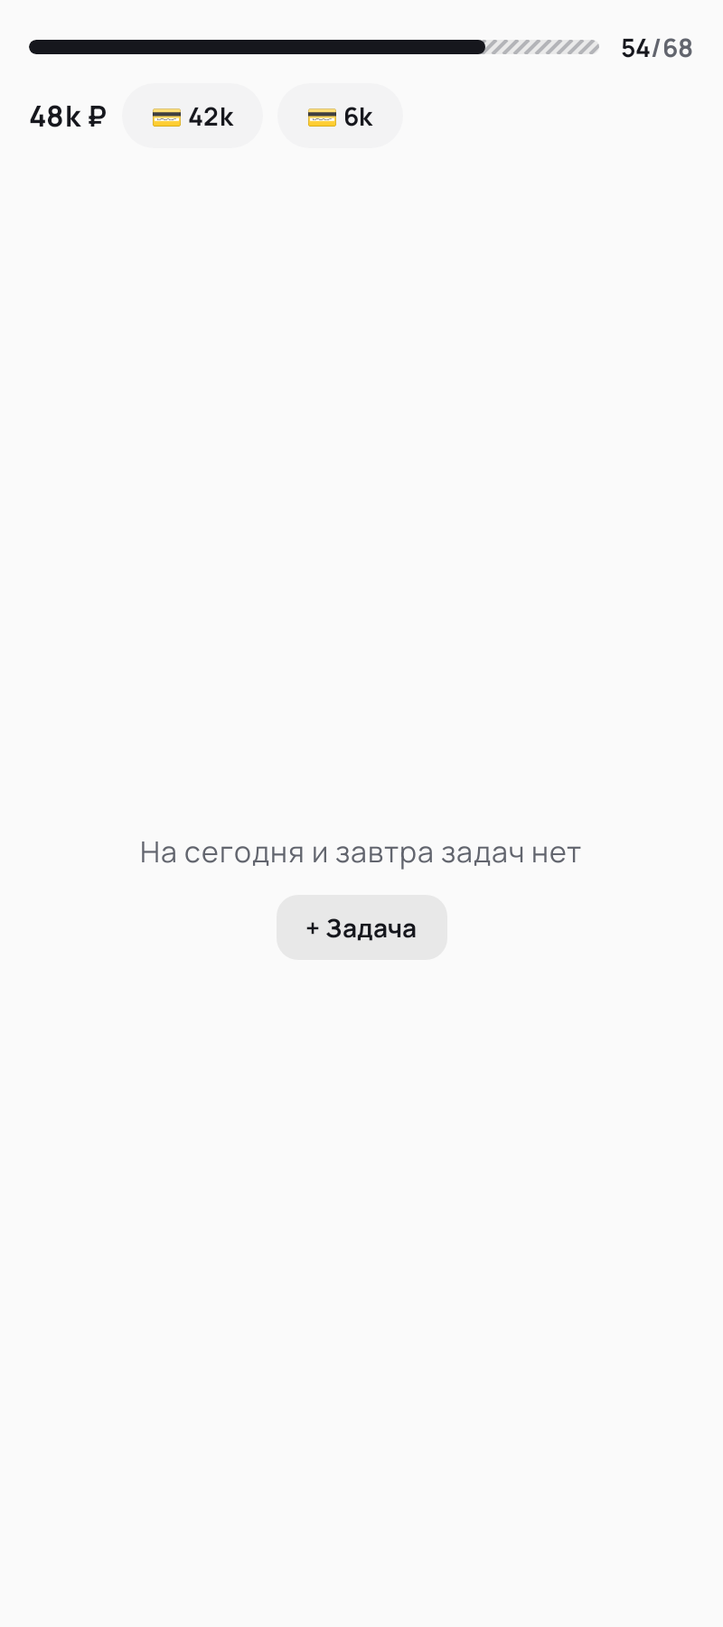
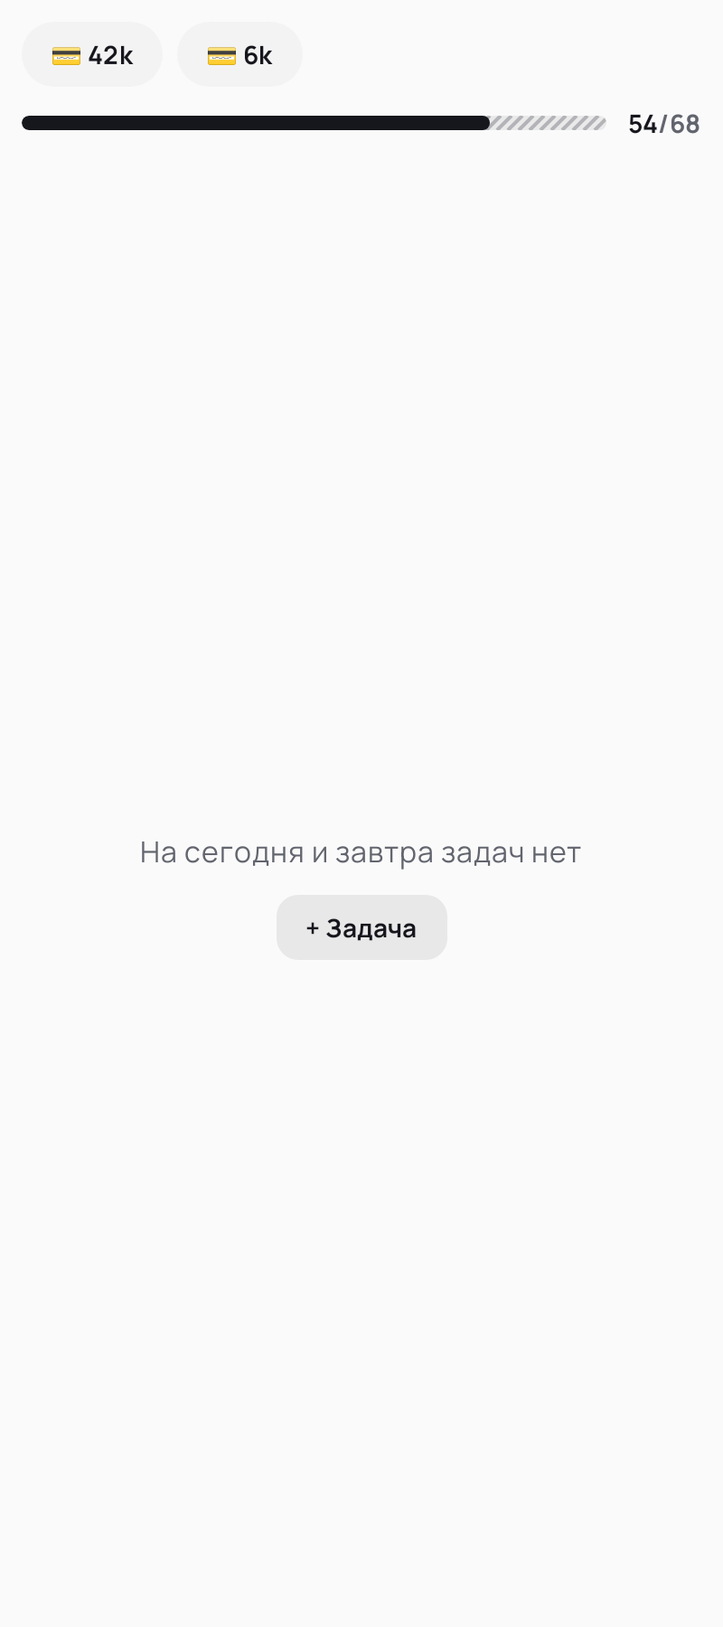
#350: редизайн хаба — счета над полосой, неделя задач, поля 12; 0.100.0
Claude-Session: https://claude.ai/code/session_019jJJH8rKyfX5gCn8Qf3pcD

Changed region(s): [[0.0312, 0.0, 0.8438, 0.0933], [0.875, 0.0622, 0.9688, 0.0933], [0.9062, 0.0, 0.9375, 0.0311]]

diff --git a/app/src/main/java/com/prostovasei/simpletasks/ui/feature/hub/HubScreen.kt b/app/src/main/java/com/prostovasei/simpletasks/ui/feature/hub/HubScreen.kt
@@ -1,5 +1,6 @@
 package com.prostovasei.simpletasks.ui.feature.hub
 
+import java.time.LocalDate
 import androidx.compose.foundation.layout.fillMaxHeight
 import androidx.compose.foundation.layout.height
 import androidx.compose.foundation.layout.Spacer
@@ -186,7 +187,7 @@ private fun HubHabits(habits: List<com.prostovasei.simpletasks.domain.model.habi
     val colors = AppTheme.colors
     val spacing = AppTheme.spacing
     Row(
-        Modifier.fillMaxWidth().horizontalScroll(rememberScrollState()).padding(horizontal = spacing.md).testTag(TAG_HUB_HABITS),
+        Modifier.fillMaxWidth().horizontalScroll(rememberScrollState()).padding(horizontal = spacing.sm).testTag(TAG_HUB_HABITS),
         horizontalArrangement = Arrangement.spacedBy(spacing.xs),
     ) {
         habits.forEach { habit ->
@@ -221,22 +222,22 @@ private fun HubFinance(state: FinanceState, onIntent: (FinanceIntent) -> Unit) {
     val month = java.time.YearMonth.from(today)
     val model = remember(state.operations, today) { MonthSpending.of(state.operations.orEmpty(), month, today) }
     val budget = remember(state.budgets, state.categories, state.operations, today) { state.monthBudget(month) }
-    Column(Modifier.fillMaxWidth().padding(horizontal = spacing.md).testTag(TAG_HUB_FINANCE)) {
+    // #350 (выбор PM): счета над полосой, без общей суммы; отступ до полосы 10; поля 12, как у всех блоков хаба.
+    Column(Modifier.fillMaxWidth().padding(horizontal = spacing.sm).testTag(TAG_HUB_FINANCE)) {
+        state.accounts?.takeIf { it.isNotEmpty() }?.let { HubAccounts(it) }
         LimitBar(model.total, monthLimit(context, budget), model.forecast, month, today, daily = true) { onIntent(FinanceIntent.OpenBudget(month)) }
-        state.accounts?.takeIf { it.isNotEmpty() }?.let { HubAccounts(it, state.total) }
     }
 }
 
 @Composable
-private fun HubAccounts(accounts: List<Account>, total: Long) {
+private fun HubAccounts(accounts: List<Account>) {
     val colors = AppTheme.colors
     val spacing = AppTheme.spacing
     // #336 (выбор PM): плашки счетов крупнее — 14 sp и поля 12 × 8; не помещаются — листаются вбок.
     Row(
-        Modifier.fillMaxWidth().padding(top = (SizeTokens.HUB_FINANCE_GAP - SpacingTokens.XXS).dp).horizontalScroll(rememberScrollState()),
+        Modifier.fillMaxWidth().padding(bottom = (SizeTokens.HUB_FINANCE_GAP - SpacingTokens.XXS).dp).horizontalScroll(rememberScrollState()),
         horizontalArrangement = Arrangement.spacedBy(spacing.xs), verticalAlignment = Alignment.CenterVertically,
     ) {
-        Text("${financeThousands(total)} ₽", style = MaterialTheme.typography.titleMedium, fontWeight = FontWeight.Bold, color = colors.textPrimary, maxLines = 1)
         accounts.take(HUB_ACCOUNTS).forEach { account ->
             Text("${account.emojiShown} ${financeThousands(account.balance)}", Modifier.clip(CircleShape).background(FinanceShareColors.accountSurface)
                 .padding(horizontal = spacing.md, vertical = spacing.xs).testTag(TAG_HUB_ACCOUNT), style = MaterialTheme.typography.titleSmall, fontWeight = FontWeight.Bold,
@@ -252,11 +253,9 @@ private fun HubTasks(state: HubState, onIntent: (TaskListIntent) -> Unit, onOpen
     val nowMinute = rememberNowMinute()
     val toggle: (TaskItem) -> Unit = { onIntent(TaskListIntent.ToggleComplete(it.id, it.isRecurring, it.showsDone)) }
     val open: (TaskItem) -> Unit = { onOpenTask(it.ghostOf ?: it.id) }
-    val groups = listOf(
-        Triple(null, state.overdue, true),
-        Triple(today, state.todayItems, false),
-        Triple(today.plusDays(1), state.tomorrowItems, false),
-    )
+    // #350 (выбор PM): неделя списком вниз; пустые дни скрыты.
+    val groups = listOf(Triple<LocalDate?, List<TaskItem>, Boolean>(null, state.overdue, true)) + state.days.map { (date, items) -> Triple(date, items, false) }
+    val edge = AppTheme.spacing.xxs
     // #338: список идёт под капсулу; снизу отступ в её высоту, чтобы последнюю задачу можно было поднять над панелью.
     LazyColumn(Modifier.fillMaxSize().testTag(TAG_HUB_TASKS), contentPadding = androidx.compose.foundation.layout.WindowInsets.navigationBars
         .asPaddingValues().let { androidx.compose.foundation.layout.PaddingValues(bottom = it.calculateBottomPadding() + SizeTokens.NAV_BAR_SPACE.dp) }) {
@@ -270,7 +269,7 @@ private fun HubTasks(state: HubState, onIntent: (TaskListIntent) -> Unit, onOpen
                 } else {
                     DayHeader(
                         text = WidgetDates.header(date),
-                        relative = if (index == 1) days.day(DayLabel.Today) else days.day(DayLabel.Tomorrow),
+                        relative = when (index) { 1 -> days.day(DayLabel.Today); 2 -> days.day(DayLabel.Tomorrow); else -> null },
                         isOverdue = false,
                         count = items.size,
                         progress = if (index == 1) items.count { it.isDone } to items.size else null,
@@ -290,6 +289,7 @@ private fun HubTasks(state: HubState, onIntent: (TaskListIntent) -> Unit, onOpen
                 onOpen = open,
                 dayLabels = late,
                 today = today,
+                inset = edge,
             )
         }
     }
@@ -323,8 +323,8 @@ private fun HubNewsPager(news: List<HubNews>) {
         val prev = stringResource(R.string.hub_news_prev)
         val next = stringResource(R.string.hub_news_next)
         Box(Modifier.fillMaxWidth()) {
-        HorizontalPager(pager, Modifier.fillMaxWidth(), contentPadding = androidx.compose.foundation.layout.PaddingValues(horizontal = spacing.md),
-            pageSpacing = spacing.md) { page ->
+        HorizontalPager(pager, Modifier.fillMaxWidth(), contentPadding = androidx.compose.foundation.layout.PaddingValues(horizontal = spacing.sm),
+            pageSpacing = spacing.sm) { page ->
             Column(verticalArrangement = Arrangement.spacedBy(spacing.xs)) {
                 pages[page].chunked(2).forEach { pair ->
                     Row(Modifier.fillMaxWidth(), horizontalArrangement = Arrangement.spacedBy(spacing.xs)) {

diff --git a/app/src/test/java/com/prostovasei/simpletasks/widget/WidgetHubTest.kt b/app/src/test/java/com/prostovasei/simpletasks/widget/WidgetHubTest.kt
@@ -57,16 +57,18 @@ class WidgetHubTest {
             WidgetDayBlock(WidgetDay.On(today.minusDays(1)), listOf(item("late", "Оплатить интернет", DayLabel.Yesterday, "10:00"))),
             WidgetDayBlock(WidgetDay.On(today), listOf(item("a", "Созвон с командой", DayLabel.Today, "10:00"), item("b", "Купить продукты", DayLabel.Today, null))),
             WidgetDayBlock(WidgetDay.On(today.plusDays(1)), listOf(item("c", "Стоматолог", DayLabel.Tomorrow, "09:30"))),
-            WidgetDayBlock(WidgetDay.On(today.plusDays(3)), listOf(item("far", "Через три дня", DayLabel.Date(today.plusDays(3), false), null))),
+            WidgetDayBlock(WidgetDay.On(today.plusDays(3)), listOf(item("near", "Через три дня", DayLabel.Date(today.plusDays(3), false), null))),
+            WidgetDayBlock(WidgetDay.On(today.plusDays(7)), listOf(item("far", "Через неделю", DayLabel.Date(today.plusDays(7), false), null))),
         ),
     )
 
     private val news = (1..6).map { HubNews("https://example.com/$it", "09:0$it · Футбол", "Новость номер $it о матче", unread = it <= 2) }
 
     @Test
-    fun hubModelKeepsOverdueTodayAndTomorrowOnly() {
+    fun hubModelKeepsOverdueAndNextWeek() {
+        // #350: неделя вперёд (сегодня + 6 дней), дальше — нет.
         val days = model.forHub().days.map { (it.day as WidgetDay.On).date }
-        assertEquals(listOf(today.minusDays(1), today, today.plusDays(1)), days)
+        assertEquals(listOf(today.minusDays(1), today, today.plusDays(1), today.plusDays(3)), days)
     }
 
     @Test
@@ -84,7 +86,7 @@ class WidgetHubTest {
         val rows = FinanceRows(context, 400, 760)
         val accounts = listOf(Account("a", "Карта", AccountType.entries.first(), "💳", 0, 4_200_000, Instant.EPOCH),
             Account("b", "Наличные", AccountType.entries.first(), "👛", 0, 600_000, Instant.EPOCH))
-        val finance = listOf(rows.limitViews(MonthSpending.of(ops, month, today), 8_000_000, month, today, daily = true), rows.accountRow(accounts, 4, large = true))
+        val finance = listOf(rows.accountRow(accounts, 4, large = true), rows.limitViews(MonthSpending.of(ops, month, today), 8_000_000, month, today, daily = true))
         val size = DpSize(400.dp, 760.dp)
         val bar = runBlocking {
             GlanceRemoteViews().compose(context, size, appWidgetOptions = Bundle()) {
@@ -103,7 +105,7 @@ class WidgetHubTest {
         assertTrue(root.descendants().filter { it.id == R.id.widget_hub_habit }.all { it.hasOnClickListeners() })
         val list = root.descendants().filterIsInstance<ListView>().single()
         val texts = (0 until list.adapter.count).flatMap { list.adapter.getView(it, null, list).texts() }
-        assertTrue(texts.toString(), "Оплатить интернет" in texts && "Стоматолог" in texts && "Через три дня" !in texts)
+        assertTrue(texts.toString(), "Оплатить интернет" in texts && "Стоматолог" in texts && "Через три дня" in texts && "Через неделю" !in texts)
         val cards = root.descendants().filter { it.id == R.id.hub_card_title }.map { (it as TextView).text.toString() }.toList()
         assertEquals(news.take(4).map { it.title }, cards)
         // #346: точек и стрелок нет — невидимые края листают; заголовков разделов нет.

diff --git a/app/src/main/java/com/prostovasei/simpletasks/ui/feature/hub/HubViewModel.kt b/app/src/main/java/com/prostovasei/simpletasks/ui/feature/hub/HubViewModel.kt
@@ -26,11 +26,13 @@ import javax.inject.Inject
 data class HubState(
     val today: LocalDate? = null,
     val overdue: List<TaskItem> = emptyList(),
-    val todayItems: List<TaskItem> = emptyList(),
-    val tomorrowItems: List<TaskItem> = emptyList(),
+    /** #350: ближайшая неделя — сегодня и ещё шесть дней, по порядку. */
+    val days: List<Pair<LocalDate, List<TaskItem>>> = emptyList(),
     val isLoading: Boolean = true,
 ) {
-    val isEmpty: Boolean get() = !isLoading && overdue.isEmpty() && todayItems.isEmpty() && tomorrowItems.isEmpty()
+    val todayItems: List<TaskItem> get() = days.getOrNull(0)?.second.orEmpty()
+    val tomorrowItems: List<TaskItem> get() = days.getOrNull(1)?.second.orEmpty()
+    val isEmpty: Boolean get() = !isLoading && overdue.isEmpty() && days.all { it.second.isEmpty() }
 }
 
 @OptIn(ExperimentalCoroutinesApi::class)
@@ -47,11 +49,11 @@ class HubViewModel @Inject constructor(
     init {
         viewModelScope.launch {
             dayTicker.today().flatMapLatest { today ->
-                val tomorrow = today.plusDays(1)
+                val last = today.plusDays(HUB_DAYS - 1L)
                 combine(
                     tasks.observeAllScreen(today),
                     tasks.observeWeek(today.weekStart()),
-                    tasks.observeWeek(tomorrow.weekStart()),
+                    tasks.observeWeek(last.weekStart()),
                     projects.observeProjectTree(),
                     completion.pending,
                 ) { all, week, nextWeek, tree, pending ->
@@ -62,8 +64,10 @@ class HubViewModel @Inject constructor(
                     HubState(
                         today = today,
                         overdue = all.overdue.map { it.toItem(byId, today, zone, pending) },
-                        todayItems = day(today, week),
-                        tomorrowItems = day(tomorrow, nextWeek),
+                        days = (0 until HUB_DAYS).map { offset ->
+                            val date = today.plusDays(offset.toLong())
+                            date to day(date, if (date.weekStart() == today.weekStart()) week else nextWeek)
+                        },
                         isLoading = false,
                     )
                 }
@@ -79,3 +83,6 @@ class HubViewModel @Inject constructor(
         }
     }
 }
+
+/** #350: хаб показывает задачи на неделю вперёд (сегодня + 6 дней). */
+const val HUB_DAYS = 7

diff --git a/app/src/main/java/com/prostovasei/simpletasks/ui/common/TimelineTaskList.kt b/app/src/main/java/com/prostovasei/simpletasks/ui/common/TimelineTaskList.kt
@@ -91,6 +91,8 @@ fun LazyListScope.timelineItems(
     /** #314: появление строк по очереди (окно дня); null — строки появляются сразу. */
     rowMotion: (@Composable (index: Int, content: @Composable () -> Unit) -> Unit)? = null,
     today: LocalDate = LocalDate.now(),
+    /** #350: внешнее поле строки; в хабе — XXS, чтобы кружок и время стояли в 12 dp от края, как остальные блоки. */
+    inset: androidx.compose.ui.unit.Dp? = null,
 ) {
     val rows = WidgetTimeline.rows(items, overdue = dayLabels, nowMinute = nowMinute.takeUnless { dayLabels }, days = days)
         .filterIsInstance<WidgetRow.Task>()
@@ -109,6 +111,7 @@ fun LazyListScope.timelineItems(
                 selected = if (selecting && !item.isGhost) item.id in selection.orEmpty() else null,
                 onLongClick = if (selectable && !selecting) { { onSelect?.invoke(item) } } else null,
                 today = today,
+                inset = inset,
             )
         }
         if (rowMotion != null) rowMotion(index, content) else content()
@@ -166,6 +169,7 @@ fun LazyItemScope.TimelineTaskRow(
     selected: Boolean? = null,
     onLongClick: (() -> Unit)? = null,
     today: LocalDate = LocalDate.now(),
+    inset: androidx.compose.ui.unit.Dp? = null,
 ) {
     val colors = AppTheme.colors
     val spacing = AppTheme.spacing
@@ -186,7 +190,7 @@ fun LazyItemScope.TimelineTaskRow(
             .animateItem()
             .fillMaxWidth()
             .height(height)
-            .padding(horizontal = spacing.xs)
+            .padding(horizontal = inset ?: spacing.xs)
             .clip(AppTheme.shapes.medium)
             .then(if (selected == true) Modifier.background(colors.selected).border(SizeTokens.CHECKBOX_STROKE.dp, colors.accent, AppTheme.shapes.medium) else Modifier)
             .combinedClickable(onClick = onClick, onLongClick = onLongClick)

diff --git a/app/src/main/java/com/prostovasei/simpletasks/widget/WidgetHub.kt b/app/src/main/java/com/prostovasei/simpletasks/widget/WidgetHub.kt
@@ -28,10 +28,10 @@ import java.time.YearMonth
 /** Новостей на странице и страниц в виджете: 12 новостей — три страницы. */
 internal const val HUB_WIDGET_PAGE = 4
 
-/** Модель задач хаба: просроченные, сегодня и завтра из ленты «Все» (без дней дальше завтра и без «без даты»). */
+/** Модель задач хаба: просроченные и неделя вперёд (#350) из ленты «Все», без «без даты». */
 internal fun WidgetModel.forHub(): WidgetModel {
-    val tomorrow = today.plusDays(1)
-    return copy(days = days.filter { block -> (block.day as? WidgetDay.On)?.date?.let { it <= tomorrow } == true })
+    val last = today.plusDays(com.prostovasei.simpletasks.ui.feature.hub.HUB_DAYS - 1L)
+    return copy(days = days.filter { block -> (block.day as? WidgetDay.On)?.date?.let { it <= last } == true })
 }
 
 /** Страница новостей виджета: [page] по кругу в пределах [pages]. */
@@ -94,7 +94,8 @@ internal suspend fun hubFinance(context: Context, width: Int, height: Int): List
     val model = MonthSpending.of(operations, month, today)
     val budget = MonthBudget.of(BudgetRules.effective(repository.observeBudgets().first(), month, month),
         repository.observeCategories().first(), operations, month, today)
-    return listOf(rows.limitViews(model, monthLimit(context, budget), month, today, daily = true), rows.accountRow(accounts.take(HUB_ACCOUNTS), HUB_ACCOUNTS, large = true))
+    // #350 (выбор PM): счета над полосой.
+    return listOf(rows.accountRow(accounts.take(HUB_ACCOUNTS), HUB_ACCOUNTS, large = true), rows.limitViews(model, monthLimit(context, budget), month, today, daily = true))
 }
 
 @RequiresApi(Build.VERSION_CODES.S)

diff --git a/app/src/main/java/com/prostovasei/simpletasks/widget/WidgetFinance.kt b/app/src/main/java/com/prostovasei/simpletasks/widget/WidgetFinance.kt
@@ -171,6 +171,11 @@ internal class FinanceRows(private val context: Context, private val width: Int,
                             setTextViewTextSize(R.id.widget_finance_account, android.util.TypedValue.COMPLEX_UNIT_SP, ACCOUNT_LARGE_SP)
                             val density = context.resources.displayMetrics.density
                             setViewPadding(R.id.widget_finance_account, (10 * density).toInt(), (7 * density).toInt(), (10 * density).toInt(), (7 * density).toInt())
+                            // #350: крайние плашки — вровень с полосой (поле хаба 12), между плашками 6.
+                            if (Build.VERSION.SDK_INT >= Build.VERSION_CODES.S) {
+                                setViewLayoutMargin(R.id.widget_finance_account, RemoteViews.MARGIN_START, if (index == 0) 0f else 3f, android.util.TypedValue.COMPLEX_UNIT_DIP)
+                                setViewLayoutMargin(R.id.widget_finance_account, RemoteViews.MARGIN_END, if (index == columns - 1) 0f else 3f, android.util.TypedValue.COMPLEX_UNIT_DIP)
+                            }
                         }
                         setContentDescription(R.id.widget_finance_account, "${account.name}, ${Money.format(account.balance)}")
                     }

diff --git a/app/src/test/java/com/prostovasei/simpletasks/ui/feature/hub/HubScreenTest.kt b/app/src/test/java/com/prostovasei/simpletasks/ui/feature/hub/HubScreenTest.kt
@@ -42,8 +42,12 @@ class HubScreenTest {
     private val tasks = HubState(
         today = today,
         overdue = listOf(item("o1", "Оплатить интернет", "12:00", DayLabel.Yesterday, Priority.HIGH)),
-        todayItems = listOf(item("t1", "Созвон с командой", "10:00"), item("t2", "Купить продукты", null)),
-        tomorrowItems = listOf(item("m1", "Стоматолог", "09:30", DayLabel.Tomorrow)),
+        days = listOf(
+            today to listOf(item("t1", "Созвон с командой", "10:00"), item("t2", "Купить продукты", null)),
+            today.plusDays(1) to listOf(item("m1", "Стоматолог", "09:30", DayLabel.Tomorrow)),
+            today.plusDays(2) to emptyList(),
+            today.plusDays(4) to listOf(item("w1", "Планёрка", "10:00", DayLabel.Date(today.plusDays(4), showYear = false))),
+        ),
         isLoading = false,
     )
     private val finance = FinanceState(

diff --git a/docs/ARCHITECTURE.md b/docs/ARCHITECTURE.md
@@ -1767,6 +1767,10 @@ Compose и RemoteViews используют общие сокращения ме
 
 `VoiceSheet` ставит карточку как `TaskSheet`: `rememberKeyboardHeight` (запасные 40 % высоты), отступ снизу = max(клавиатура, ime, навигация) + 8 dp, высота `SizeTokens.VOICE_HEIGHT` = 212 dp. Внизу `Tide` — `Canvas` с тремя слоями-синусоидами на `VOICE_TIDE_PERCENT` высоты; цвета `ColorTokens.voiceTide` / `voiceCalm` смешиваются по анимированному признаку записи (0,6 с), подъём — громкость × `VOICE_TIDE_RISE`. Фаза волн — свои часы `tidePhase` на `withInfiniteAnimationFrameNanos`: на паузе волны замедляются вместе с переходом в серый и замирают на месте, после ⏺ продолжают с той же фазы (без рывка к началу); кадры идут только пока вода движется и при включённых анимациях системы. `withInfiniteAnimationFrameNanos`, а не `withFrameNanos` — иначе тесты Compose не дожидаются покоя. Карточка гасит нажатия через `pointerInput`, без `clickable` (не лишняя кнопка для TalkBack); ошибка — `liveRegion`, «●» озвучивается словами. Кнопки — `SheetButton` 50 dp (⏸/⏺ `ic_voice_pause`/`ic_voice_record`, галочка `ic_voice_check`); ошибка — `errorText` между ними, у `NO_PERMISSION` текст ведёт в настройки (`onSettings`). `blocking()` — нет доступа, недоступно, нет языка: ⏺ неактивна. Логика `VoiceRoute`/`VoiceState`/движка (#299, #302) не менялась. Старые токены микрофона (`VOICE_MIC`, `VOICE_GLOW`…) и строки подписей удалены.
 
+### 4.126. Редизайн хаба (#350, 0.100.0)
+
+`HubState.days` — семь пар (дата, задачи) вместо `todayItems/tomorrowItems` (оставлены вычисляемыми), `HUB_DAYS = 7`; `HubViewModel` читает недели `today` и `today + 6`. `HubTasks` выводит «Просрочено» и непустые дни, подписи «Сегодня»/«Завтра» — у первых двух. `timelineItems(inset)` / `TimelineTaskRow(inset)`: в хабе внешнее поле `XXS`, кружок и время в 12 dp от края. Финансы: `HubAccounts` над `LimitBar`, без общей суммы, снизу `HUB_FINANCE_GAP`; поля финансов, привычек и новостей — `spacing.sm`. Виджет: `forHub()` — до `today + 6`; `hubFinance` — счета, затем полоса; `accountRow(large)` — крайние плашки без внешнего поля (`setViewLayoutMargin`, Android 12+); `widget_hub_root` — `widget_hub_edge` 12, `widget_hub_inner` 6, список `widget_hub_list_end` 9.
+
 ### 4.125. Цифры «факт/прогноз/план» в хабе (#348, 0.99.0)
 
 `HubLimitBar`: `Row` — полоса `HUB_LIMIT_BAR` 8 (трек, штриховка, заливка, риска `HUB_LIMIT_TICK` — `TAG_LIMIT_GOAL`) и текст `AnnotatedString` (`TAG_LIMIT_FORECAST`). Доли и признаки превышения — общий `HubBarScale.of(spent, limit, forecast)` (шкала до максимума), числа — `financeNumber` (тысячи без «k»). Счета — отступ `HUB_FINANCE_GAP` 10. Виджет: `FinanceRows.hubLimitBar` рисует то же в одну картинку высотой строки цифр, `widget_hub_limit` — `paddingBottom` 6dp.

diff --git a/docs/TESTING-CHECKLIST.md b/docs/TESTING-CHECKLIST.md
@@ -1015,6 +1015,9 @@ FP1–FP8, FW1–FW8, FU1–FU8, FS, FN, FB, W3a и FT остаются непо
 | HC346-2 | Коснуться левого и правого края блока новостей | Страница листается назад и вперёд; середина карточки открывает новость; в приложении работает свайп |
 | HC346-3 | Полоса лимита хаба | «42k» без ₽, штриховка до прогноза и его сумма, лимит внутри справа, отметки «сегодня» и строки под полосой нет |
 | HC346-4 | Прогноз больше лимита | Штриховка до края, сумма прогноза красная у лимита |
+| HR350-1 | Хаб в приложении и виджете | Счета плашками над полосой, до полосы ~10, общей суммы нет |
+| HR350-2 | Прокрутить задачи хаба | Видны дни недели вперёд (до сегодня + 6), пустые дни не показаны |
+| HR350-3 | Края хаба | Счета, полоса, новости, подписи дней, кружки и время — в одну линию слева и справа (12) |
 | HF348-1 | Хаб в приложении и виджете | Тонкая полоса, справа «42/48/90»: факт и план чёрные, прогноз серый; до счетов заметный отступ |
 | HF348-2 | Прогноз больше бюджета | Прогноз оранжевый, на полосе чёрная риска плана |
 | HF348-3 | Траты больше бюджета | Факт и заливка красные, риска плана |

diff --git a/docs/testing-runs/0.100.0-local.md b/docs/testing-runs/0.100.0-local.md
@@ -1,0 +1,8 @@
+# 0.100.0 — локальная проверка (#350)
+
+26.11.2026, Claude Code. Ветка `claude/hub-redesign` от `claude/release-0990`. PM: конструктор, выбор, «делай сразу код, проверку и выпуск».
+
+- `./gradlew assembleDebug check recordRoborazziDebug` — успешно; lint и проверка дизайн-токенов прошли. Снимки с датой возвращены.
+- `HubScreenTest` (неделя, пустые дни скрыты), `WidgetHubTest` (неделя без дальних дней, счета над полосой); снимки хаба обновлены, края по 12 сверены.
+
+Не проверено локально: вид на телефоне — HR350.

diff --git a/design/approved/350/README.md b/design/approved/350/README.md
@@ -1,4 +1,12 @@
 # #350 — Редизайн хаба
 
 Конструктор: [constructor.html](constructor.html). Запрос PM: счета над полосой, задачи на неделю, одинаковые боковые отступы.
-Выбор PM — записать после согласования.
+
+## Выбор PM (26.11.2026)
+
+| Параметр | Решение |
+|---|---|
+| Счета | плашки как сейчас, над полосой; отступ до полосы 10; общей суммы нет |
+| Задачи | неделя списком вниз (сегодня + 6 дней), пустые дни скрыты |
+| Поля слева и справа | 12 у всех блоков |
+| Новости | карточки 2 × 2 |
